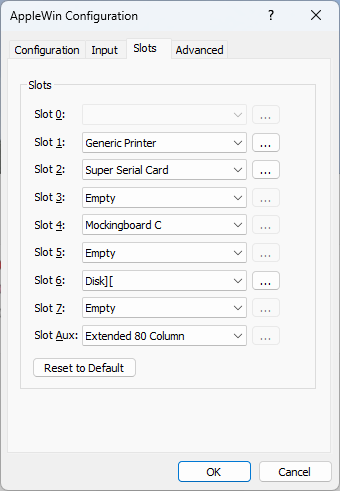
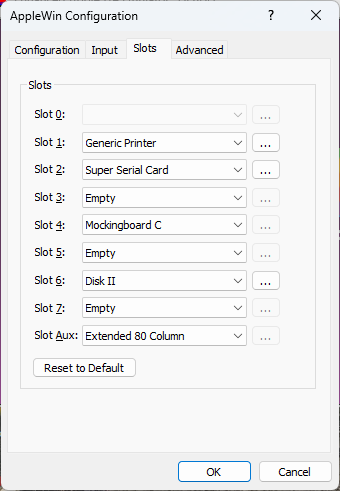
Rename cards: Disk II, Hard Disk Controller & Z80 SoftCard

diff --git a/help/cfg-slots.html b/help/cfg-slots.html
@@ -23,7 +23,7 @@ Available cards for slot 0 are: (for Apple II/II Plus):
 Available cards for slots 1-7 are:
 <ul>
   <li>Disk II
-  <li>Hard disk controller (HDC)
+  <li>Hard Disk Controller (HDC)
   <li>Printer interface (*)
   <li>Mouse card (*)
   <li>Saturn 128K
@@ -36,7 +36,7 @@ Available cards for slots 1-7 are:
   <li>Uthernet (*)
   <li>Uthernet II (*)
   <li>VidHD (*)
-  <li>Microsoft CP/M SoftCard (Z80) (*)
+  <li>Z80 SoftCard - for CP/M (*)
 </ul>
 
 (*) Only a single instance of these cards can be selected.
@@ -77,7 +77,7 @@ Extra options:
   </ul>
 </ul>
 
-<strong>Hard disk controller</strong><br>
+<strong>Hard Disk Controller</strong><br>
 Typically this is inserted into slot 7 (occasionally with a second in slot 5).<br>
 <br>
 Extra options:
@@ -196,9 +196,9 @@ Insert a VidHD card into any slot (and when in slot 3 it can co-exist with an 80
 Allows all Apple II models to support the IIgs' Super Hi-Res (SHR) video modes and is supported by eg. <a target="_blank" href="https://archive.org/details/TotalReplay">Total Replay</a>.<br>
 <br>
 
-<strong>Microsoft CP/M SoftCard:</strong><br>
+<strong>Z80 SoftCard:</strong><br>
 Typically this is inserted into slot 4 or 5.<br>
-Emulates a CP/M card, complete with full Z80 emulation.<br>
+Emulates a card for CP/M support, complete with full Z80 emulation.<br>
 <br>
 
 </body>

diff --git a/source/Card.cpp b/source/Card.cpp
@@ -197,7 +197,7 @@ SS_CARDTYPE Card::GetCardType(const std::string & card)
 	{
 		return CT_MouseInterface;
 	}
-	else if (card == Z80Card::GetSnapshotCardName())
+	else if (card == Z80Card::GetSnapshotCardName() || card == Z80Card::GetSnapshotCardNameOld())
 	{
 		return CT_Z80;
 	}
@@ -213,11 +213,11 @@ SS_CARDTYPE Card::GetCardType(const std::string & card)
 	{
 		return CT_SAM;
 	}
-	else if (card == Disk2InterfaceCard::GetSnapshotCardName())
+	else if (card == Disk2InterfaceCard::GetSnapshotCardName() || card == Disk2InterfaceCard::GetSnapshotCardNameOld())
 	{
 		return CT_Disk2;
 	}
-	else if (card == HarddiskInterfaceCard::GetSnapshotCardName())
+	else if (card == HarddiskInterfaceCard::GetSnapshotCardName() || card == HarddiskInterfaceCard::GetSnapshotCardNameOld())
 	{
 		return CT_GenericHDD;
 	}

diff --git a/source/Card.h b/source/Card.h
@@ -1,5 +1,7 @@
 #pragma once
 
+// *** DON'T CHANGE THE ORDER OF THESE ENUMS ***
+// (As they are saved to the Registry)
 enum SS_CARDTYPE
 {
 	CT_Empty = 0,
@@ -7,10 +9,10 @@ enum SS_CARDTYPE
 	CT_SSC,				// Apple Super Serial Card
 	CT_MockingboardC,	// Soundcard
 	CT_GenericPrinter,
-	CT_GenericHDD,		// Hard disk
+	CT_GenericHDD,		// Hard disk controller
 	CT_GenericClock,
 	CT_MouseInterface,
-	CT_Z80,
+	CT_Z80,				// Z80 SoftCard
 	CT_Phasor,			// Soundcard
 	CT_Echo,			// Soundcard
 	CT_SAM,				// Soundcard: Software Automated Mouth

diff --git a/source/Harddisk.cpp b/source/Harddisk.cpp
@@ -1257,9 +1257,15 @@ static const UINT kUNIT_VERSION = 6;
 #define SS_YAML_KEY_FIFO_INDEX "FIFO Index"
 #define SS_YAML_KEY_FIRMWARE "Firmware"
 
-const std::string& HarddiskInterfaceCard::GetSnapshotCardName(void)
+const std::string& HarddiskInterfaceCard::GetSnapshotCardNameOld(void)
 {
 	static const std::string name("Generic HDD");
+	return name;
+}
+
+const std::string& HarddiskInterfaceCard::GetSnapshotCardName(void)
+{
+	static const std::string name("Hard Disk Controller");
 	return name;
 }
 

diff --git a/source/Z80VICE/z80.cpp b/source/Z80VICE/z80.cpp
@@ -6456,10 +6456,16 @@ void z80_WRMEM(WORD Addr, BYTE Value)
 #define SS_YAML_KEY_REGL2 "L'"
 #define SS_YAML_KEY_ACTIVE "Active"
 
-const std::string& Z80_GetSnapshotCardName(void)
+const std::string& Z80_GetSnapshotCardNameOld(void)
 {
 	static const std::string name("Z80");
 	return name;
+}
+
+const std::string& Z80_GetSnapshotCardName(void)
+{
+    static const std::string name("Z80 SoftCard");
+    return name;
 }
 
 void Z80_SaveSnapshot(class YamlSaveHelper& yamlSaveHelper, const UINT uSlot)

diff --git a/source/Disk.cpp b/source/Disk.cpp
@@ -2280,9 +2280,15 @@ static const UINT kUNIT_VERSION = 9;
 #define SS_YAML_KEY_TRACK_IMAGE_DIRTY "Track Image Dirty"
 #define SS_YAML_KEY_TRACK_IMAGE "Track Image"
 
-const std::string& Disk2InterfaceCard::GetSnapshotCardName(void)
+const std::string& Disk2InterfaceCard::GetSnapshotCardNameOld(void)
 {
 	static const std::string name("Disk][");
+	return name;
+}
+
+const std::string& Disk2InterfaceCard::GetSnapshotCardName(void)
+{
+	static const std::string name("Disk II");
 	return name;
 }
 

diff --git a/source/Disk.h b/source/Disk.h
@@ -183,6 +183,7 @@ public:
 	bool IsDriveConnected(int drive) { return m_floppyDrive[drive].m_isConnected; }
 	void SetFirmware13Sector(void) { m_force13SectorFirmware = true; }
 
+	static const std::string& GetSnapshotCardNameOld(void);
 	static const std::string& GetSnapshotCardName(void);
 	virtual void SaveSnapshot(YamlSaveHelper& yamlSaveHelper);
 	virtual bool LoadSnapshot(YamlLoadHelper& yamlLoadHelper, UINT version);

diff --git a/source/Z80VICE/z80.h b/source/Z80VICE/z80.h
@@ -43,6 +43,7 @@ DWORD z80_mainloop(ULONG uTotalCycles, ULONG uExecutedCycles);
 BYTE z80_RDMEM(WORD Addr);
 void z80_WRMEM(WORD Addr, BYTE Value);
 
+const std::string& Z80_GetSnapshotCardNameOld(void);
 const std::string& Z80_GetSnapshotCardName(void);
 void Z80_SaveSnapshot(class YamlSaveHelper& yamlSaveHelper, const UINT uSlot);
 bool Z80_LoadSnapshot(class YamlLoadHelper& yamlLoadHelper, UINT uSlot, UINT version);

diff --git a/source/z80emu.h b/source/z80emu.h
@@ -19,6 +19,7 @@ public:
 
 	static BYTE __stdcall IOWrite(WORD pc, WORD addr, BYTE bWrite, BYTE value, ULONG nExecutedCycles);
 
+	static const std::string& GetSnapshotCardNameOld(void);
 	static const std::string& GetSnapshotCardName(void);
 	virtual void SaveSnapshot(YamlSaveHelper& yamlSaveHelper);
 	virtual bool LoadSnapshot(YamlLoadHelper& yamlLoadHelper, UINT version);

diff --git a/source/Harddisk.h b/source/Harddisk.h
@@ -120,6 +120,7 @@ public:
 
 	void ForbidSaveDiskImageToRegistry() { m_saveDiskImageToRegistry = false; }
 
+	static const std::string& GetSnapshotCardNameOld(void);
 	static const std::string& GetSnapshotCardName(void);
 	virtual void SaveSnapshot(YamlSaveHelper& yamlSaveHelper);
 	virtual bool LoadSnapshot(YamlLoadHelper& yamlLoadHelper, UINT version);

diff --git a/source/z80emu.cpp b/source/z80emu.cpp
@@ -40,6 +40,11 @@ void Z80Card::InitializeIO(LPBYTE pCxRomPeripheral)
 
 //===========================================================================
 
+const std::string& Z80Card::GetSnapshotCardNameOld(void)
+{
+	return Z80_GetSnapshotCardNameOld();
+}
+
 const std::string& Z80Card::GetSnapshotCardName(void)
 {
 	return Z80_GetSnapshotCardName();
